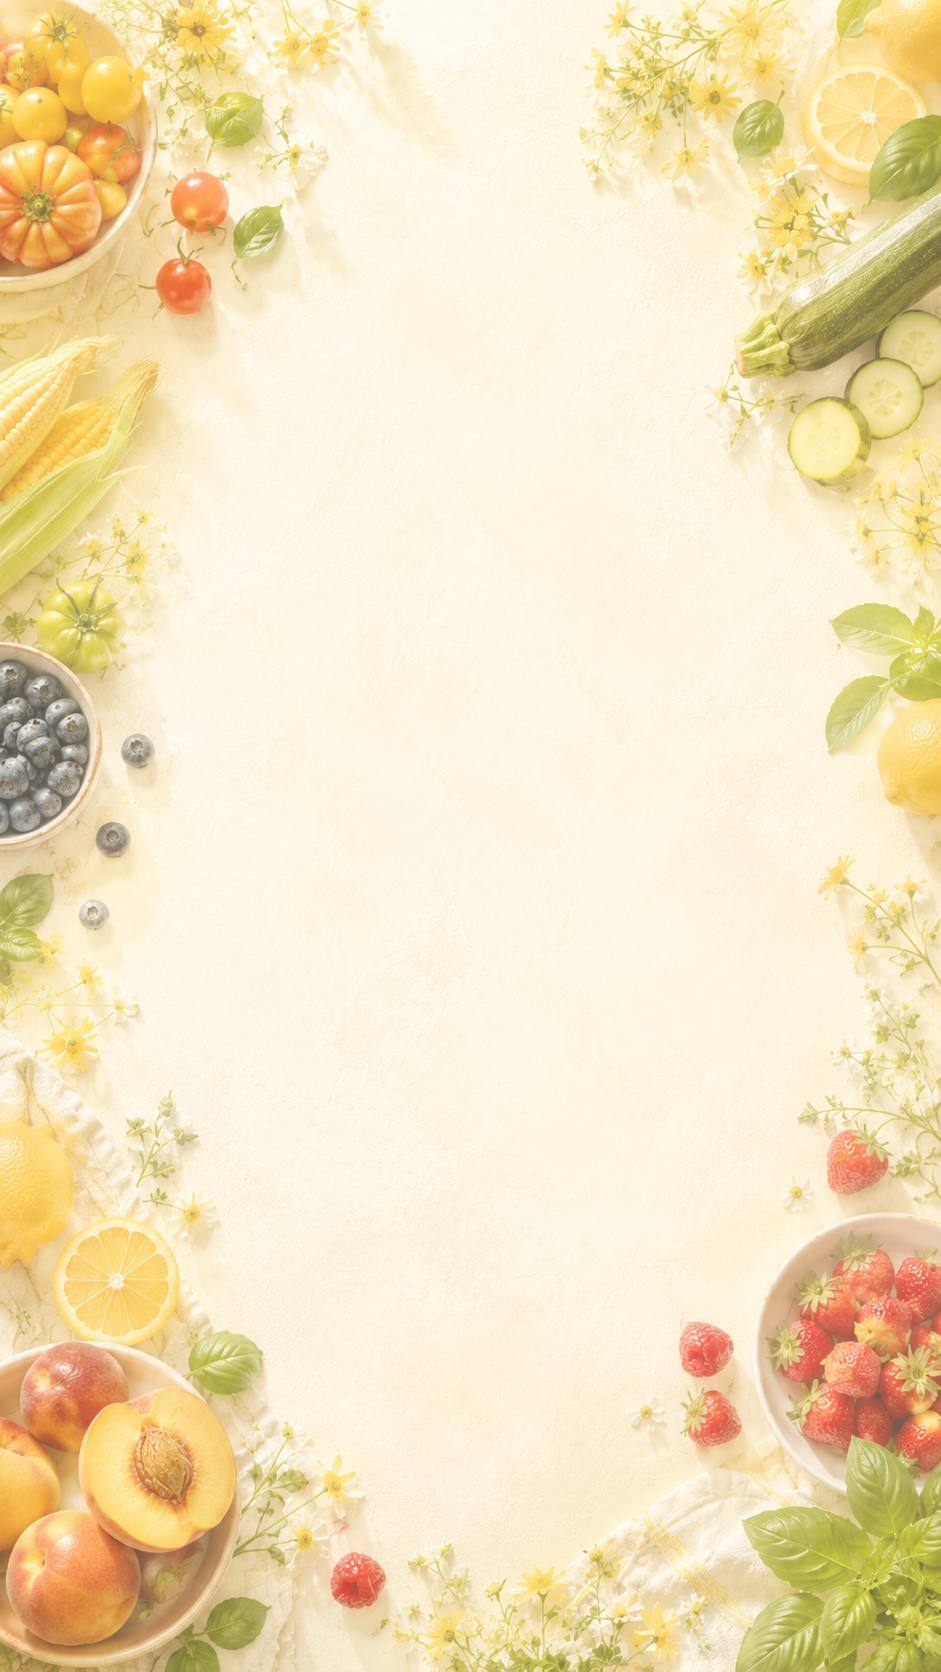
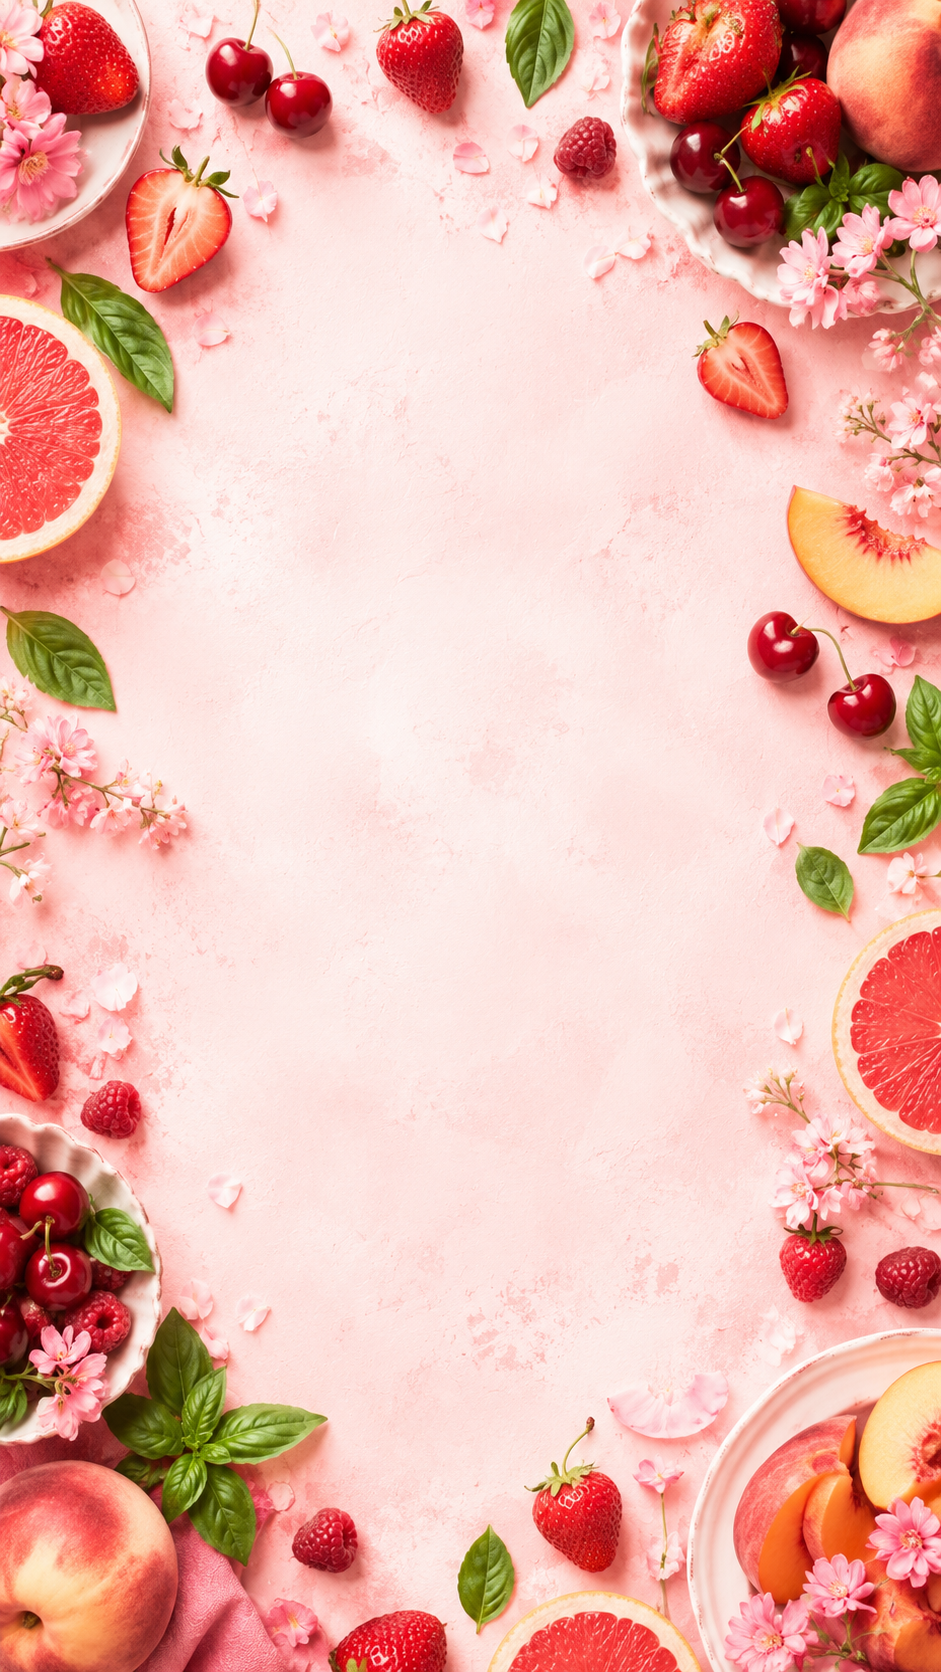
first attempt

diff --git a/internal/seasons/seasons.go b/internal/seasons/seasons.go
@@ -122,18 +122,18 @@ func GetColorScheme(season Season) ColorScheme {
 			C900: "#14532d",
 		}
 	case Summer:
-		// Yellow/golden colors - sunshine and ripe fruits
+		// Berry colors - watermelon, raspberries, and summer fruit
 		return ColorScheme{
-			C50:  "#fefce8",
-			C100: "#fef9c3",
-			C200: "#fef08a",
-			C300: "#fde047",
-			C400: "#facc15",
-			C500: "#eab308",
-			C600: "#ca8a04",
-			C700: "#a16207",
-			C800: "#854d0e",
-			C900: "#713f12",
+			C50:  "#fff1f2",
+			C100: "#ffe4e6",
+			C200: "#fecdd3",
+			C300: "#fda4af",
+			C400: "#fb7185",
+			C500: "#f43f5e",
+			C600: "#e11d48",
+			C700: "#be123c",
+			C800: "#9f1239",
+			C900: "#881337",
 		}
 	default:
 		// Default to fall colors